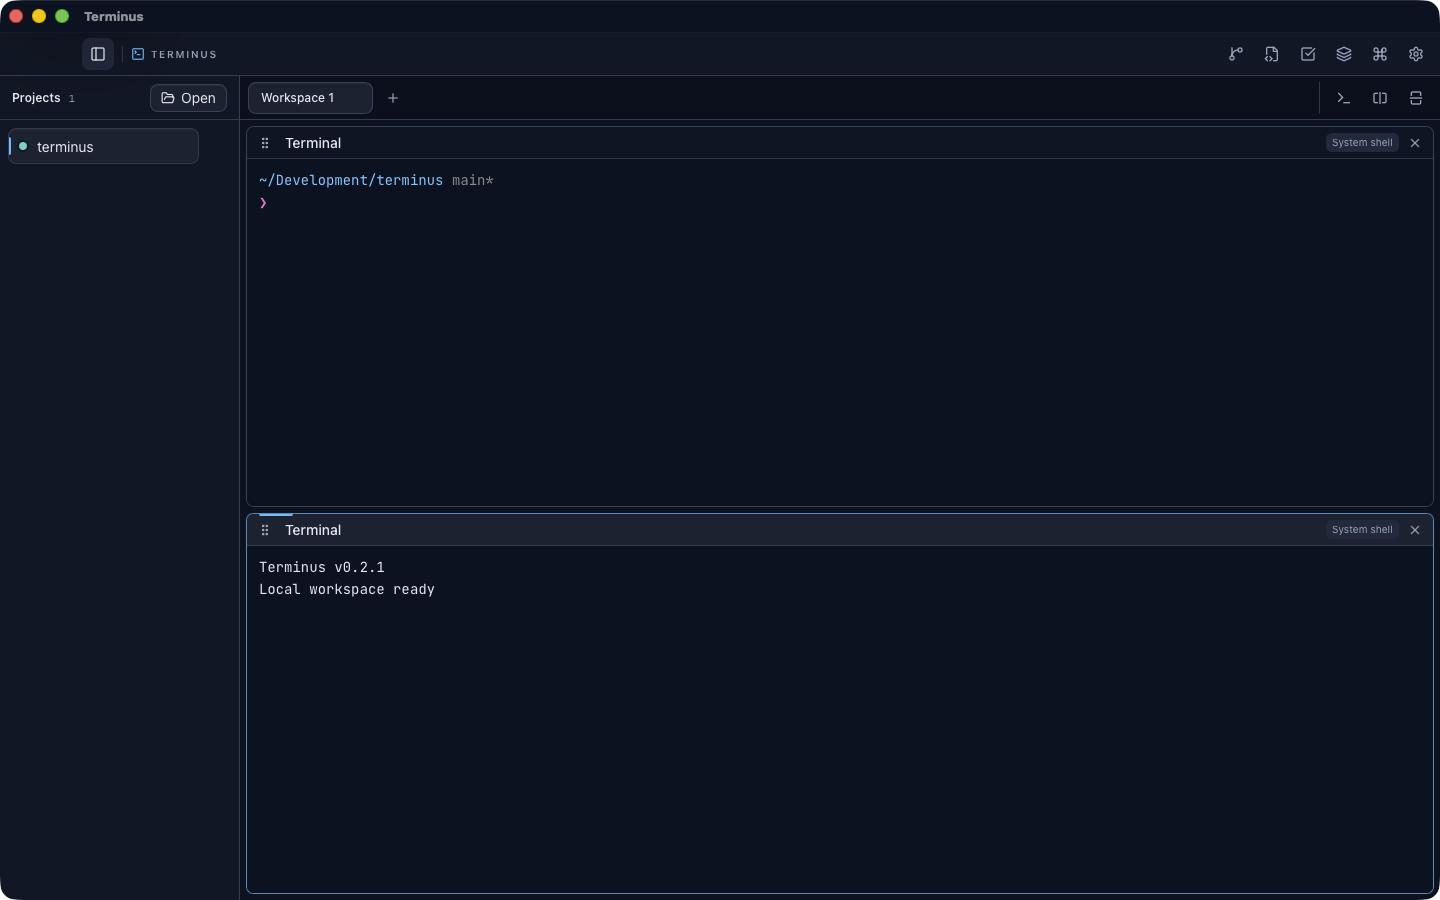
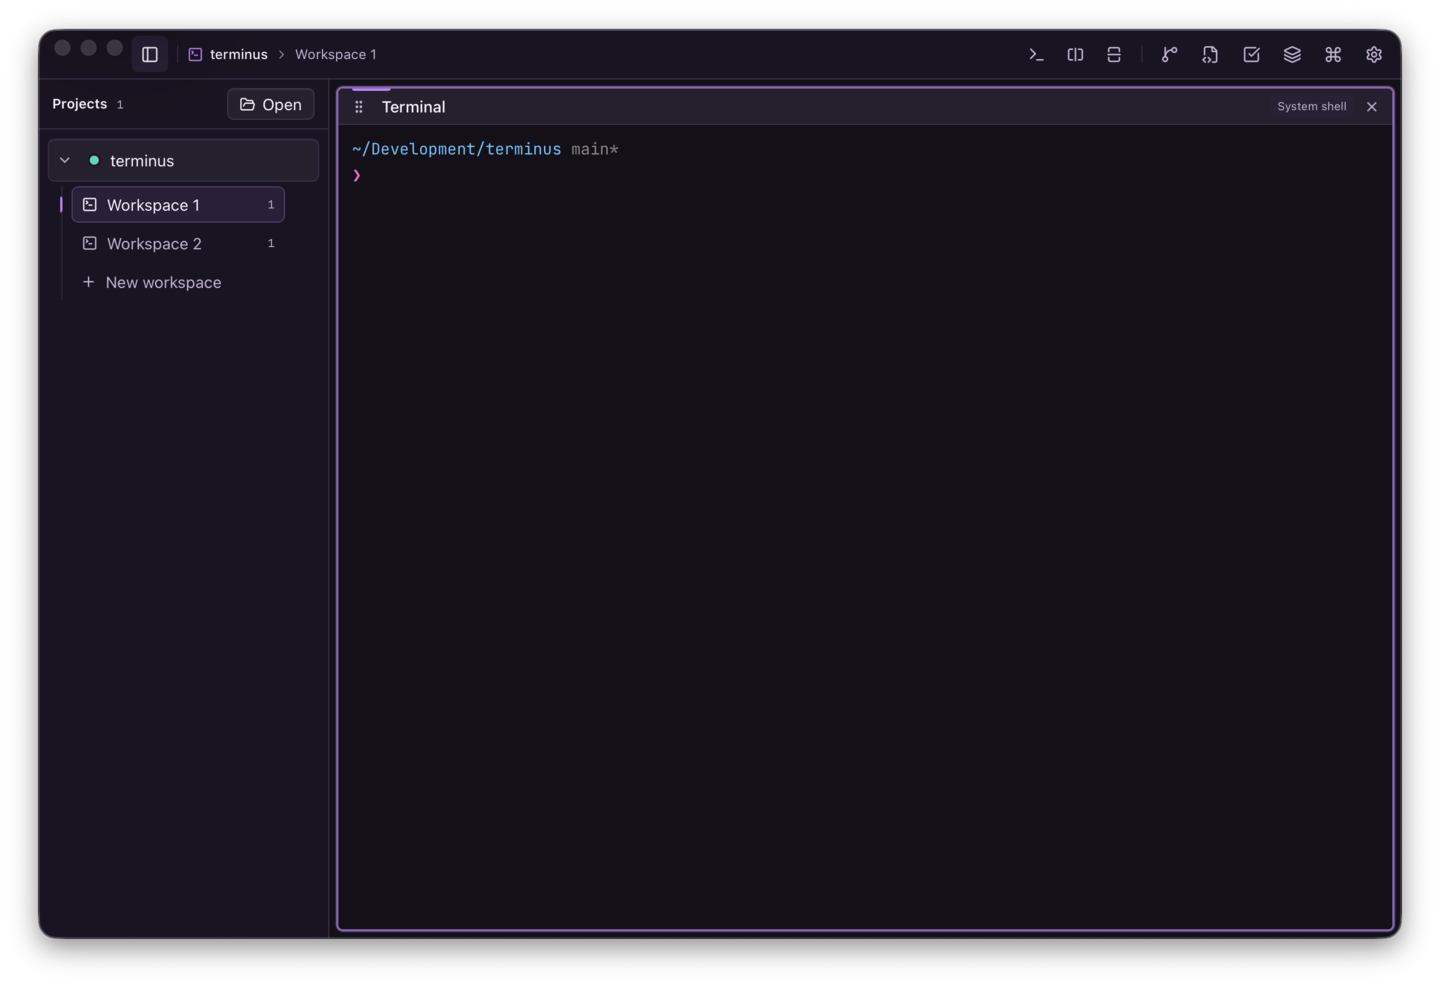
chore(release): prepare v0.2.2
Update version manifests, release notes, and repository media. Standardize Windows distribution on NSIS and add a silent installer smoke check.

Changed region(s): [[0.0, 0.0, 1.0, 1.0]]

diff --git a/src/platform/platformConfig.test.ts b/src/platform/platformConfig.test.ts
@@ -11,7 +11,7 @@ describe("desktop platform configuration", () => {
     const config = json("src-tauri/tauri.conf.json");
     const window = config.app.windows[0];
 
-    expect(config.version).toBe("0.2.1");
+    expect(config.version).toBe("0.2.2");
     expect(config.app.macOSPrivateApi).toBe(true);
     expect(window.titleBarStyle).toBeUndefined();
     expect(window.hiddenTitle).toBeUndefined();
@@ -34,7 +34,18 @@ describe("desktop platform configuration", () => {
     expect(windows.app?.windows?.[0]?.titleBarStyle).toBeUndefined();
     expect(mac.bundle.targets).toEqual(["app", "dmg"]);
     expect(linux.bundle.targets).toEqual(["deb", "appimage"]);
-    expect(windows.bundle.targets).toEqual(["msi", "nsis"]);
+    expect(windows.bundle.targets).toEqual(["nsis"]);
+  });
+
+  it("smoke-installs the supported Windows NSIS package before release", () => {
+    const releaseWorkflow = readFileSync(
+      resolve(process.cwd(), ".github/workflows/release.yml"),
+      "utf8",
+    );
+
+    expect(releaseWorkflow).toContain("Smoke install Windows NSIS package");
+    expect(releaseWorkflow).toContain("bundle/nsis/*-setup.exe");
+    expect(releaseWorkflow).toContain('ArgumentList "/S"');
   });
 
   it("keeps all package manifests on the v0.2 product version", () => {
@@ -44,8 +55,8 @@ describe("desktop platform configuration", () => {
       "utf8",
     );
 
-    expect(packageJson.version).toBe("0.2.1");
-    expect(cargo).toMatch(/^version = "0\.2\.1"$/m);
+    expect(packageJson.version).toBe("0.2.2");
+    expect(cargo).toMatch(/^version = "0\.2\.2"$/m);
     expect(cargo).toContain(
       'tauri = { version = "2", features = ["macos-private-api"] }',
     );

diff --git a/README.md b/README.md
@@ -8,14 +8,14 @@
   Keep shells and lightweight project tools together without turning your
   terminal into an IDE.
 
-  [![Latest release](https://img.shields.io/badge/release-v0.2.1-22c55e)](https://github.com/YasinKose/terminus/releases/latest)
+  [![Latest release](https://img.shields.io/badge/release-v0.2.2-22c55e)](https://github.com/YasinKose/terminus/releases/latest)
   [![Verify v0.2](https://github.com/YasinKose/terminus/actions/workflows/verify-v02.yml/badge.svg)](https://github.com/YasinKose/terminus/actions/workflows/verify-v02.yml)
   [![Platforms](https://img.shields.io/badge/platform-macOS%20%7C%20Windows%20%7C%20Linux-6b7280)](#downloads)
 
   [Download](#downloads) · [Features](#features) · [Build from source](#build-from-source) · [Roadmap](#project-status-and-roadmap)
 </div>
 
-![Terminus workspace with a project, workspace tab, and two local terminal panes](.github/assets/readme/terminus-workspace.png)
+![Terminus v0.2.2 with project workspaces nested in the sidebar and terminal controls in the titlebar](.github/assets/readme/terminus-workspace.png)
 
 ## What is Terminus?
 
@@ -30,20 +30,23 @@ general-purpose editor.
 
 ## Downloads
 
-The latest release is **v0.2.1**. Choose the native package for your platform:
+The latest release is **v0.2.2**. Choose the native package for your platform:
 
 | Platform | Package | Download |
 | --- | --- | --- |
-| macOS — Apple Silicon | DMG | [Terminus_0.2.1_aarch64.dmg](https://github.com/YasinKose/terminus/releases/download/v0.2.1/Terminus_0.2.1_aarch64.dmg) |
-| macOS — Intel | DMG | [Terminus_0.2.1_x64.dmg](https://github.com/YasinKose/terminus/releases/download/v0.2.1/Terminus_0.2.1_x64.dmg) |
-| Windows — x64 | NSIS installer | [Terminus_0.2.1_x64-setup.exe](https://github.com/YasinKose/terminus/releases/download/v0.2.1/Terminus_0.2.1_x64-setup.exe) |
-| Windows — x64 | MSI | [Terminus_0.2.1_x64_en-US.msi](https://github.com/YasinKose/terminus/releases/download/v0.2.1/Terminus_0.2.1_x64_en-US.msi) |
-| Linux — x64 | AppImage | [Terminus_0.2.1_amd64.AppImage](https://github.com/YasinKose/terminus/releases/download/v0.2.1/Terminus_0.2.1_amd64.AppImage) |
-| Ubuntu/Debian — x64 | DEB | [Terminus_0.2.1_amd64.deb](https://github.com/YasinKose/terminus/releases/download/v0.2.1/Terminus_0.2.1_amd64.deb) |
+| macOS — Apple Silicon | DMG | [Terminus_0.2.2_aarch64.dmg](https://github.com/YasinKose/terminus/releases/download/v0.2.2/Terminus_0.2.2_aarch64.dmg) |
+| macOS — Intel | DMG | [Terminus_0.2.2_x64.dmg](https://github.com/YasinKose/terminus/releases/download/v0.2.2/Terminus_0.2.2_x64.dmg) |
+| Windows — x64 | NSIS installer | [Terminus_0.2.2_x64-setup.exe](https://github.com/YasinKose/terminus/releases/download/v0.2.2/Terminus_0.2.2_x64-setup.exe) |
+| Linux — x64 | AppImage | [Terminus_0.2.2_amd64.AppImage](https://github.com/YasinKose/terminus/releases/download/v0.2.2/Terminus_0.2.2_amd64.AppImage) |
+| Ubuntu/Debian — x64 | DEB | [Terminus_0.2.2_amd64.deb](https://github.com/YasinKose/terminus/releases/download/v0.2.2/Terminus_0.2.2_amd64.deb) |
 
 All packages are also available on the
-[v0.2.1 release page](https://github.com/YasinKose/terminus/releases/tag/v0.2.1),
+[v0.2.2 release page](https://github.com/YasinKose/terminus/releases/tag/v0.2.2),
 including compressed macOS `.app` bundles.
+
+Windows releases use the NSIS `.exe` installer. MSI packaging is temporarily
+disabled while its installation path is being hardened and independently
+smoke-tested.
 
 > [!IMPORTANT]
 > Current packages are unsigned. macOS Gatekeeper, Windows SmartScreen, or
@@ -52,10 +55,17 @@ including compressed macOS `.app` bundles.
 
 ## Features
 
-- **Project-first organization** — group local terminals by project and
-  persistent workspace.
+- **Project-first organization** — expand projects in the resizable sidebar
+  and switch between their nested, persistent workspaces.
+- **Unified workspace chrome** — see the active `Project › Workspace` path and
+  reach terminal, split, Git, Tasks, Snippets, and tmux actions from one
+  compact titlebar.
+- **Hold-to-navigate switcher** — hold **Control + Option + Shift**, use
+  up/down for projects and left/right for workspaces, then release to switch.
 - **Split-pane terminal layouts** — split, resize, reorder, rename, and focus
   panes while keeping PTY output outside the application state store.
+- **Automatic agent CLI titles** — recognize foreground Codex, Claude Code,
+  and OpenCode sessions while preserving OSC titles and user-locked names.
 - **Trusted shell profiles** — configure validated executables, ordered
   arguments, environment overrides, and working directories.
 - **Lightweight Git workbench** — inspect status and diffs; stage, unstage,
@@ -85,14 +95,20 @@ including compressed macOS `.app` bundles.
   </tr>
 </table>
 
+<p align="center">
+  <img src=".github/assets/readme/terminus-workspace-navigator.png" width="1000" alt="Terminus workspace navigator opened with Control, Option, and Shift">
+  <br>
+  <sub>Hold Control + Option + Shift to preview projects and workspaces; release to switch.</sub>
+</p>
+
 ## Getting started
 
 1. Install the package for your operating system.
 2. Launch Terminus and select **Open project**.
 3. Choose a local folder. Terminus creates the first workspace and trusted
    system-shell pane.
-4. Add terminals or splits from the workspace toolbar, then open Git, Tasks,
-   Snippets, or tmux from the top toolbar as needed.
+4. Add terminals or splits from the titlebar, then open Git, Tasks, Snippets,
+   or tmux from the same toolbar as needed.
 
 <p align="center">
   <img src=".github/assets/readme/terminus-empty-workspace.png" width="760" alt="Terminus first-launch screen in English">

diff --git a/CHANGELOG.md b/CHANGELOG.md
@@ -1,5 +1,49 @@
 # Changelog
 
+## 0.2.2 — 2026-07-28
+
+### Added
+
+- A project-first workspace tree in the resizable sidebar, with nested
+  workspace creation, rename, close, reorder, terminal counts, and
+  cross-workspace pane drag-and-drop.
+- A unified titlebar with `Project › Workspace` context, terminal and split
+  controls, one-at-a-time Git/Tasks/Snippets/tmux inspectors, and a compact
+  overflow menu for narrow windows.
+- Automatic foreground titles for Codex, Claude Code, and OpenCode processes,
+  while preserving OSC title fallback and user-locked names.
+- A hold-to-navigate project and workspace switcher using
+  Control + Option + Shift and the arrow keys.
+
+### Changed
+
+- Removed the separate horizontal workspace tab strip to return more vertical
+  space to terminal panes.
+- Standardized Windows distribution on the NSIS installer and added a silent
+  install smoke gate to the release workflow; MSI publishing is temporarily
+  disabled.
+- Updated repository screenshots and download links for the v0.2.2 interface.
+
+### Fixed
+
+- Converted canonical Windows `\\?\C:\...` project paths back to drive-letter
+  form before spawning a shell, preventing `cmd.exe` from rejecting the
+  working directory and falling back to `C:\Windows`.
+
+### Security
+
+- Kept foreground-process detection inside the existing structured PTY
+  session boundary; no free-form shell execution was introduced.
+
+## 0.2.1 — 2026-07-27
+
+### Changed
+
+- Refined search and form focus treatments for a more native desktop feel.
+- Replaced prominent outer focus halos with subtle border and inset emphasis
+  while preserving keyboard accessibility.
+- Added reproducible multi-platform release packaging.
+
 ## 0.2.0 — 2026-07-25
 
 ### Added
